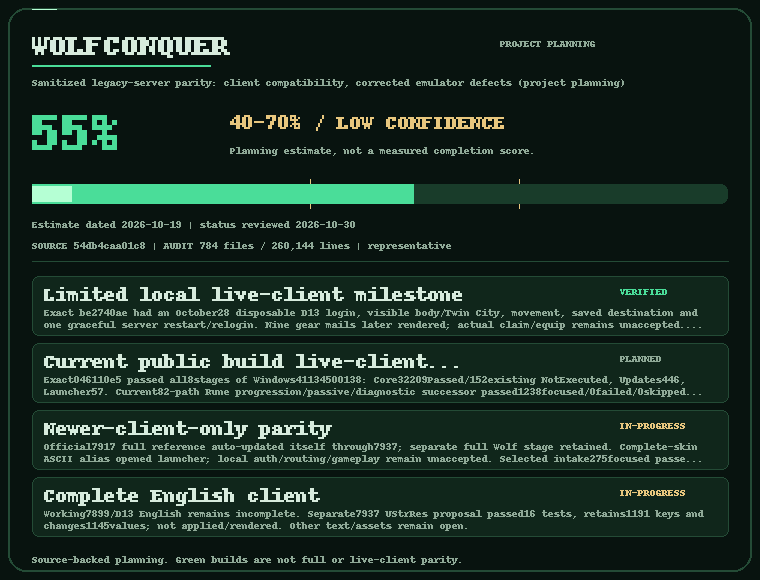
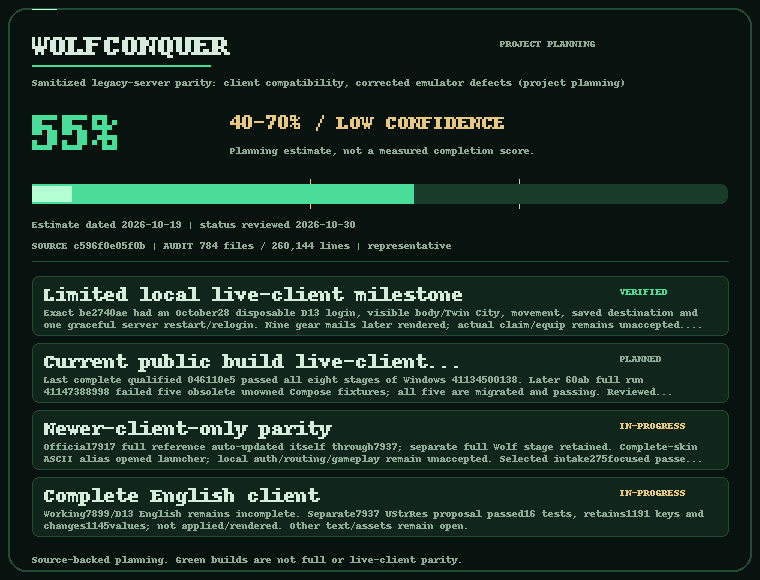
Refresh parity tracker [skip ci]

Changed region(s): [[0.0605, 0.6517, 0.9079, 0.6828], [0.0908, 0.4034, 0.1816, 0.4345]]

diff --git a/docs/parity/PROGRESS.md b/docs/parity/PROGRESS.md
@@ -8,7 +8,7 @@ Planning estimate: **55%**, range **40-70%**, **low confidence**. This is not a 
 
 Estimate date: **2026-10-19**. Status review date: **2026-10-30**. Reviewing the status does not refresh the estimate's age.
 
-Source commit: `54db4caa01c80460939fab7dd2001b4b38ac9f45` (short: `54db4caa01c8`).
+Source commit: `c596f0e05f0b762754a7204b668430d0045dee5d` (short: `c596f0e05f0b`).
 
 Source audit: 2026-10-19; 784 files; 260,144 lines; target comparison: **representative**. Inventory counts are not implementation proof.
 
@@ -19,7 +19,7 @@ A green test suite is not a live-client, complete-English, or full-parity certif
 | Milestone | Status | Detail |
 | --- | --- | --- |
 | Limited local live-client milestone | verified | Exact be2740ae had an October28 disposable D13 login, visible body/Twin City, movement, saved destination and one graceful server restart/relogin. Nine gear mails later rendered; actual claim/equip remains unaccepted. This does not qualify current main or7937 gameplay. |
-| Current public build live-client acceptance | planned | Exact046110e5 passed all8stages of Windows41134500138: Core32209Passed/152existing NotExecuted, Updates446, Launcher57. Current82-path Rune progression/passive/diagnostic successor passed1238focused/0failed/0skipped. Its exact-public full gate and current-main live-client acceptance remain pending. |
+| Current public build live-client acceptance | planned | Last complete qualified 046110e5 passed all eight stages of Windows 41134500138. Later 60ab full run 41147388998 failed five obsolete unowned Compose fixtures; all five are migrated and passing. Reviewed decomposition/creator work passed 1,596 decomposition, 1,809 retained neighbor/data and corrected 81 creator controls with overlap. Its exact-public full Windows gate and current-client acceptance remain pending. |
 | Complete English client | in-progress | Working7899/D13 English remains incomplete. Separate7937 UStrRes proposal passed16 tests, retains1191 keys and changes1145values; not applied/rendered. Other text/assets remain open. |
 | Newer-client-only parity | in-progress | Official7917 full reference auto-updated itself through7937; separate full Wolf stage retained. Complete-skin ASCII alias opened launcher; local auth/routing/gameplay remain unaccepted. Selected intake275focused passed; actual old65 schema refusal led to observed strict67-field main57093/Sub1693 rows. Typed envelope Build05/294focused passed; actual managed intake0 retained both67-field catalogs; non-ID meanings/runtime/cost/save owners remain open. No newer-client completion percentage. |
 | Public full-client download and updates | in-progress | Tooling preview launcher-preview-20261028 remains immutable at224f1eb5; anonymous HTTPS ZIP/checksum downloads match its checked nine-file package. New source adds two exact reviewed data paths (446 updater cases plus7 scripts); token\_type.dat remains quarantined. No full game assets, portable configuration or real client feed are published. Fresh full-client install/update/recovery acceptance remains open. |
@@ -28,8 +28,8 @@ A green test suite is not a live-client, complete-English, or full-parity certif
 
 | Domain | Status | Implemented evidence | Remaining work |
 | --- | --- | --- | --- |
-| Transport, authentication and startup | partial | Packet/cipher/startup paths validate envelopes and configured UID domains. Owned process/restart controls and one local D13 login/walk fixture have passed. Ordinary admission now loads saved physical class/level after durable commit. Native account-to-world handoff, complete ownership and current-public client acceptance remain open. | Prove the authenticated native account-to-world handoff and protected D13 login payload; complete ownership and loader joins, then verify the published build and staged endpoint migration with the actual client. |
-| Shared player, items and persistence | partial | Selected storage/mailbox/Trade/booth/equipment/learning/consumables use owned saved transactions. Exact046 passed the full Windows gate. Current source adds joint Rune composition and recorded chance decisions before publication;1238 focused controls passed with exact images, UID custody and restart without replay. Its exact-public full gate, reward UID producers, native graph/SQL and broader recovery remain open. | Prove client warehouse cache/resynchronization behavior after committed-but-undelivered mutations. Finish one shared native player/item graph, login-loader, real login/save worker, production callers, legacy SQL/provider compatibility and restart recovery. |
+| Transport, authentication and startup | partial | Packet/cipher/startup paths validate envelopes and configured UID domains. Earlier D13 login/walk remains bounded. New authenticated internal account handoff/NewRole uses real signed redemption, single-use connection permits, unique names and complete six-file starter creation before native output. All 81 creation/data controls pass. Protected native D13 ticket binding and current-client acceptance remain open. | Prove the authenticated native account-to-world handoff and protected D13 login payload; complete ownership and loader joins, then verify the published build and staged endpoint migration with the actual client. |
+| Shared player, items and persistence | partial | Selected storage/mail/Trade/booth/equipment and learning use owned saves. Rune compose/chance/decompose retain full images, registered UIDs and recovery. Creator v19 and completed history allow later gameplay while denying repeat starter grants; EOF cleanup preserves debt. First run: 1,809 passed / 49 fixture failures; corrected 81 creator controls passed. Full public CI, RuneBag, remaining producers, native graph and SQL remain open. | Prove client warehouse cache/resynchronization behavior after committed-but-undelivered mutations. Finish one shared native player/item graph, login-loader, real login/save worker, production callers, legacy SQL/provider compatibility and restart recovery. |
 | Combat, monsters and death | partial | Selected combat/status/AI/death paths have source proof. Rune casting joins actual classification, normal/alternate providers and Beast state before costs; passive raw-self items do not mint phantom learned skills. Current source adds the exact selected7899 All-round table through owned status. Full native equipment/attack/death, other passive effects and7937 activation remain open. | Complete all callers, native arithmetic and shared RNG/order semantics, drops, lifetime ownership and multi-player/client scenarios. |
 | NPCs, shops, progression and housing | partial | Dispatch, shops, forging, skills, quest metadata and durable rewards exist. Managed VIP, promotion, donation-to-CP/bank and permanent Chi purchases validate/commit before publication. Housing parsing preserves coherent graphs; authenticated adoption, entry and furniture economy remain unfinished. | Close deferred mutations and exact economy/persistence ordering; complete housing, occupants and furniture lifecycle. |
 | Trade, social systems and events | partial | Managed Trade/booth exchanges use ordered participant commits and a shared WAL. Owned startup recovery now reconciles exact recorded pair intent, including partial item swaps, real escrow refund/exchange and complete vendor closures. Source fixtures cover restart without replay; guild/clan/event/native ownership and multiplayer client acceptance remain open. | Complete native/social/event ownership and real-client multiplayer acceptance. Broader inventory/storage and booth raw-writer/delivery lifecycles, remaining guild/union actions, brackets, rewards, claims, reset, database parity and durable recovery remain open; scoped managed tests do not certify all transfers. |
